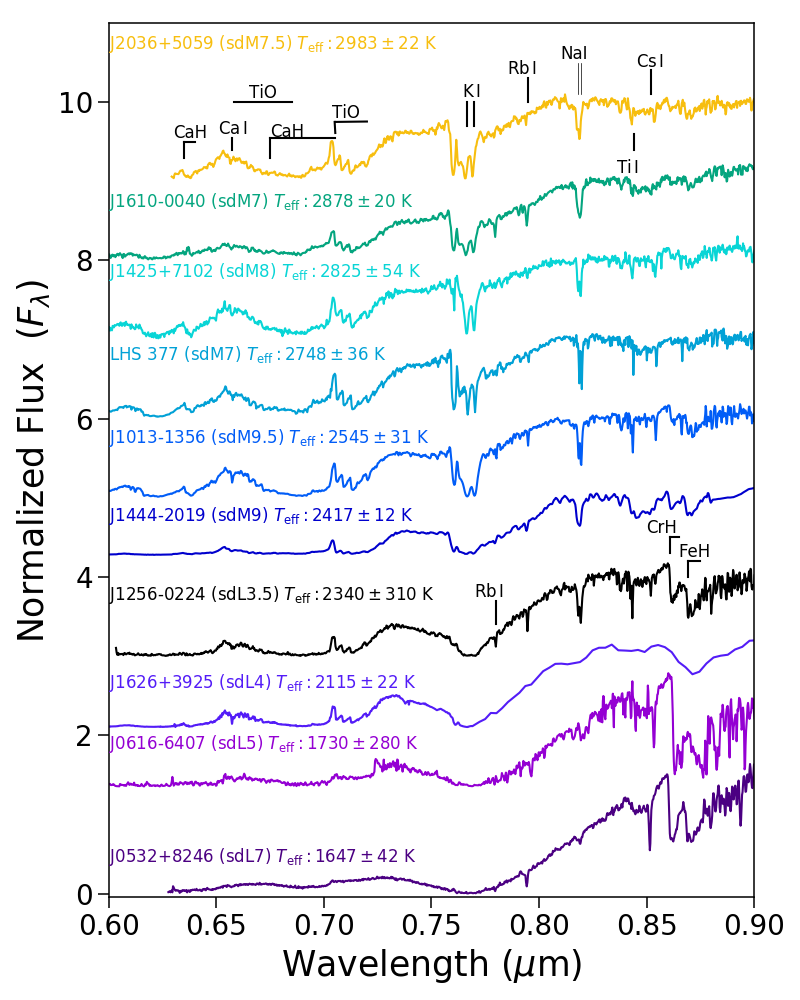
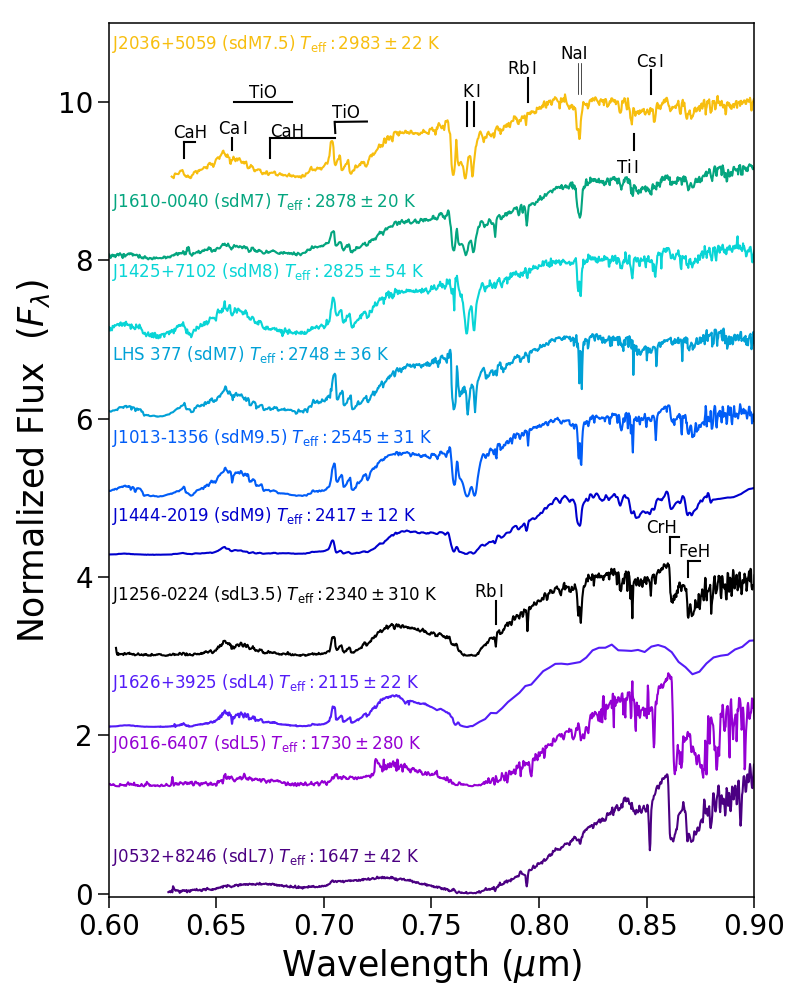
Moved text over and added missing J's

diff --git a/Subdwarfs_redoptical.py b/Subdwarfs_redoptical.py
@@ -102,25 +102,25 @@ ax1.plot(df_2036['w'], norm_df_2036 + 9, c='#F7BE0F')                           
 
 
 # ------- Label Sources -------------
-ax1.text(0, 0.04, 'J0532+8246 (sdL7) $T_\mathrm{eff}: 1647 \pm 42$ K ', transform=ax1.transAxes, color='indigo',
+ax1.text(0.005, 0.04, 'J0532+8246 (sdL7) $T_\mathrm{eff}: 1647 \pm 42$ K ', transform=ax1.transAxes, color='indigo',
          fontsize=12)
-ax1.text(0, 0.17, 'J0616-6407 (sdL5) $T_\mathrm{eff}: 1730 \pm 280$ K ', transform=ax1.transAxes, color='darkviolet',
+ax1.text(0.005, 0.17, 'J0616-6407 (sdL5) $T_\mathrm{eff}: 1730 \pm 280$ K ', transform=ax1.transAxes, color='darkviolet',
          fontsize=12)
-ax1.text(0, 0.24, 'J1626+3925 (sdL4) $T_\mathrm{eff}: 2115 \pm 22$ K', transform=ax1.transAxes, color='#531CF7',
+ax1.text(0.005, 0.24, 'J1626+3925 (sdL4) $T_\mathrm{eff}: 2115 \pm 22$ K', transform=ax1.transAxes, color='#531CF7',
          fontsize=12)
-ax1.text(0, 0.34, 'J1256-0224 (sdL3.5) $T_\mathrm{eff}: 2340 \pm 310$ K', transform=ax1.transAxes, color='k',
+ax1.text(0.005, 0.34, 'J1256-0224 (sdL3.5) $T_\mathrm{eff}: 2340 \pm 310$ K', transform=ax1.transAxes, color='k',
          fontsize=12)
-ax1.text(0, 0.43, 'J1444-2019 (sdM9) $T_\mathrm{eff}: 2417 \pm 12$ K', transform=ax1.transAxes, color='mediumblue',
+ax1.text(0.005, 0.43, 'J1444-2019 (sdM9) $T_\mathrm{eff}: 2417 \pm 12$ K', transform=ax1.transAxes, color='mediumblue',
          fontsize=12)
-ax1.text(0, 0.52, 'J1013-1356 (sdM9.5) $T_\mathrm{eff}: 2545 \pm 31$ K', transform=ax1.transAxes, color='#015DF7',
+ax1.text(0.005, 0.52, 'J1013-1356 (sdM9.5) $T_\mathrm{eff}: 2545 \pm 31$ K', transform=ax1.transAxes, color='#015DF7',
          fontsize=12)
-ax1.text(0, 0.615, 'LHS 377 (sdM7) $T_\mathrm{eff}: 2748 \pm 36$ K', transform=ax1.transAxes, color='#01A1D6',
+ax1.text(0.005, 0.615, 'LHS 377 (sdM7) $T_\mathrm{eff}: 2748 \pm 36$ K', transform=ax1.transAxes, color='#01A1D6',
          fontsize=12)
-ax1.text(0, 0.71, 'J1425+7102 (sdM8) $T_\mathrm{eff}: 2825 \pm 54$ K', transform=ax1.transAxes, color='#09D5D6',
+ax1.text(0.005, 0.71, 'J1425+7102 (sdM8) $T_\mathrm{eff}: 2825 \pm 54$ K', transform=ax1.transAxes, color='#09D5D6',
          fontsize=12)
-ax1.text(0, 0.79, 'J1610-0040 (sdM7) $T_\mathrm{eff}: 2878 \pm 20$ K', transform=ax1.transAxes, color='#04A57F',
+ax1.text(0.005, 0.79, 'J1610-0040 (sdM7) $T_\mathrm{eff}: 2878 \pm 20$ K', transform=ax1.transAxes, color='#04A57F',
          fontsize=12)
-ax1.text(0, 0.97, 'J2036+5059 (sdM7.5) $T_\mathrm{eff}: 2983 \pm 22$ K', transform=ax1.transAxes, color='#F7BE0F',
+ax1.text(0.005, 0.97, 'J2036+5059 (sdM7.5) $T_\mathrm{eff}: 2983 \pm 22$ K', transform=ax1.transAxes, color='#F7BE0F',
          fontsize=12)
 
 # ---- Label Features ------

diff --git a/Subdwarfs_Jband.py b/Subdwarfs_Jband.py
@@ -76,11 +76,11 @@ ax1.plot(df_2036['w'], norm_df_2036 + 4, c='#F7BE0F')                           
 # ax1.plot(df_125614['w'], norm_df_125614, c='#C56201')                         # sdM8
 
 # ------- Label Sources -------------
-ax1.annotate('0532+8246 T$_\mathrm{eff}: 1647 \pm 42$ K ', xy=(1.215, 1.2), color='indigo', fontsize=12)
-ax1.annotate('1256-0224 T$_\mathrm{eff}: 2340 \pm 310$ K', xy=(1.215, 2.2), color='k', fontsize=12)
-ax1.annotate('LHS 377 T$_\mathrm{eff}: 2748 \pm 36$ K', xy=(1.215, 3.2), color='#01A1D6', fontsize=12)
-ax1.annotate('1610-0040 T$_\mathrm{eff}: 2878 \pm 20$ K', xy=(1.215, 4.2), color='#04A57F', fontsize=12)
-ax1.annotate('2036+5059 T$_\mathrm{eff}: 2983 \pm 22$ K', xy=(1.215, 5.2), color='#F7BE0F', fontsize=12)
+ax1.annotate('J0532+8246 T$_\mathrm{eff}: 1647 \pm 42$ K ', xy=(1.220, 1.2), color='indigo', fontsize=12)
+ax1.annotate('J1256-0224 T$_\mathrm{eff}: 2340 \pm 310$ K', xy=(1.220, 2.2), color='k', fontsize=12)
+ax1.annotate('LHS 377 T$_\mathrm{eff}: 2748 \pm 36$ K', xy=(1.220, 3.2), color='#01A1D6', fontsize=12)
+ax1.annotate('J1610-0040 T$_\mathrm{eff}: 2878 \pm 20$ K', xy=(1.220, 4.2), color='#04A57F', fontsize=12)
+ax1.annotate('J2036+5059 T$_\mathrm{eff}: 2983 \pm 22$ K', xy=(1.220, 5.2), color='#F7BE0F', fontsize=12)
 
 plt.tight_layout()
 plt.savefig('Plots/Subdwarfs_JbandKdoublet.png')
